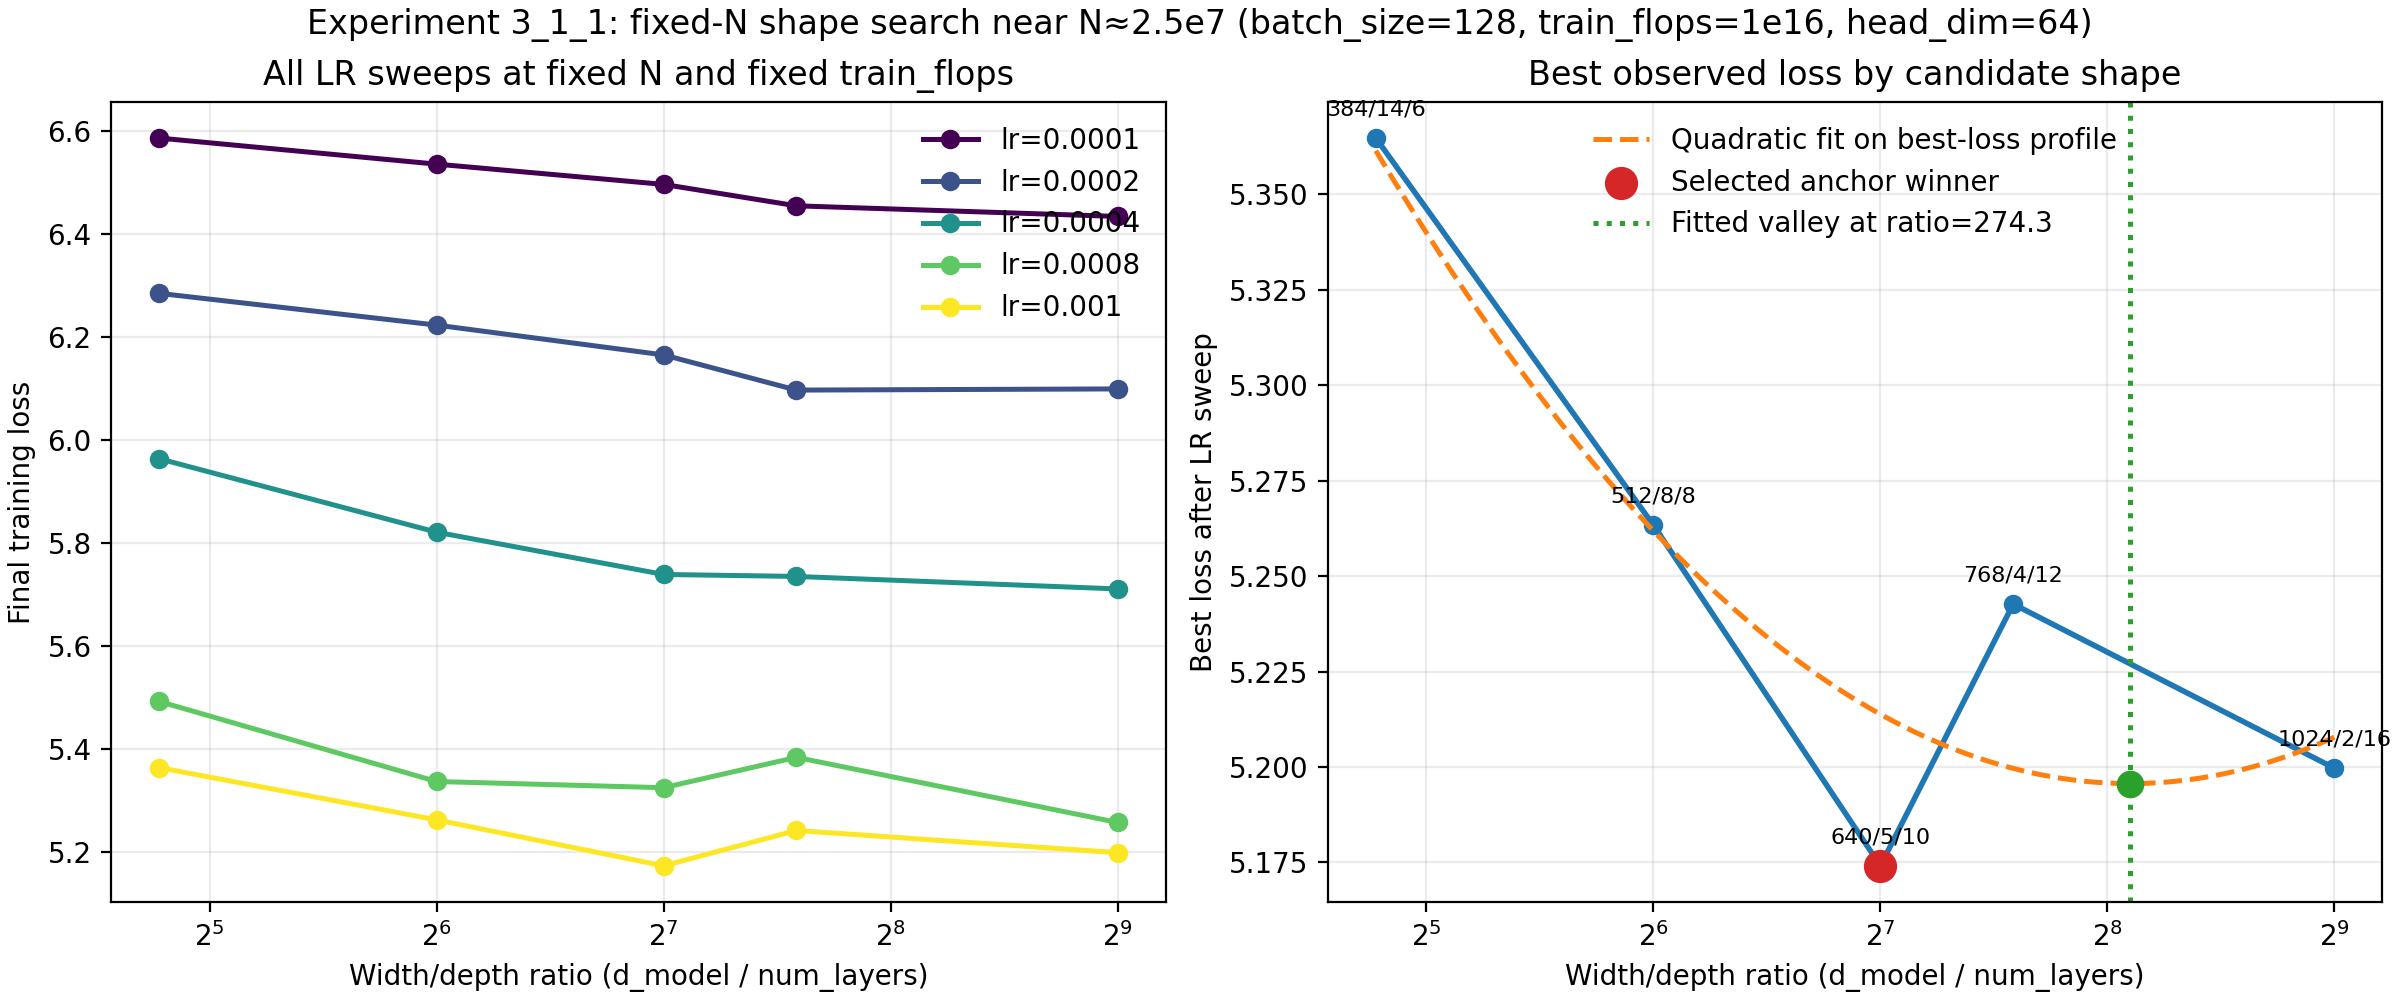
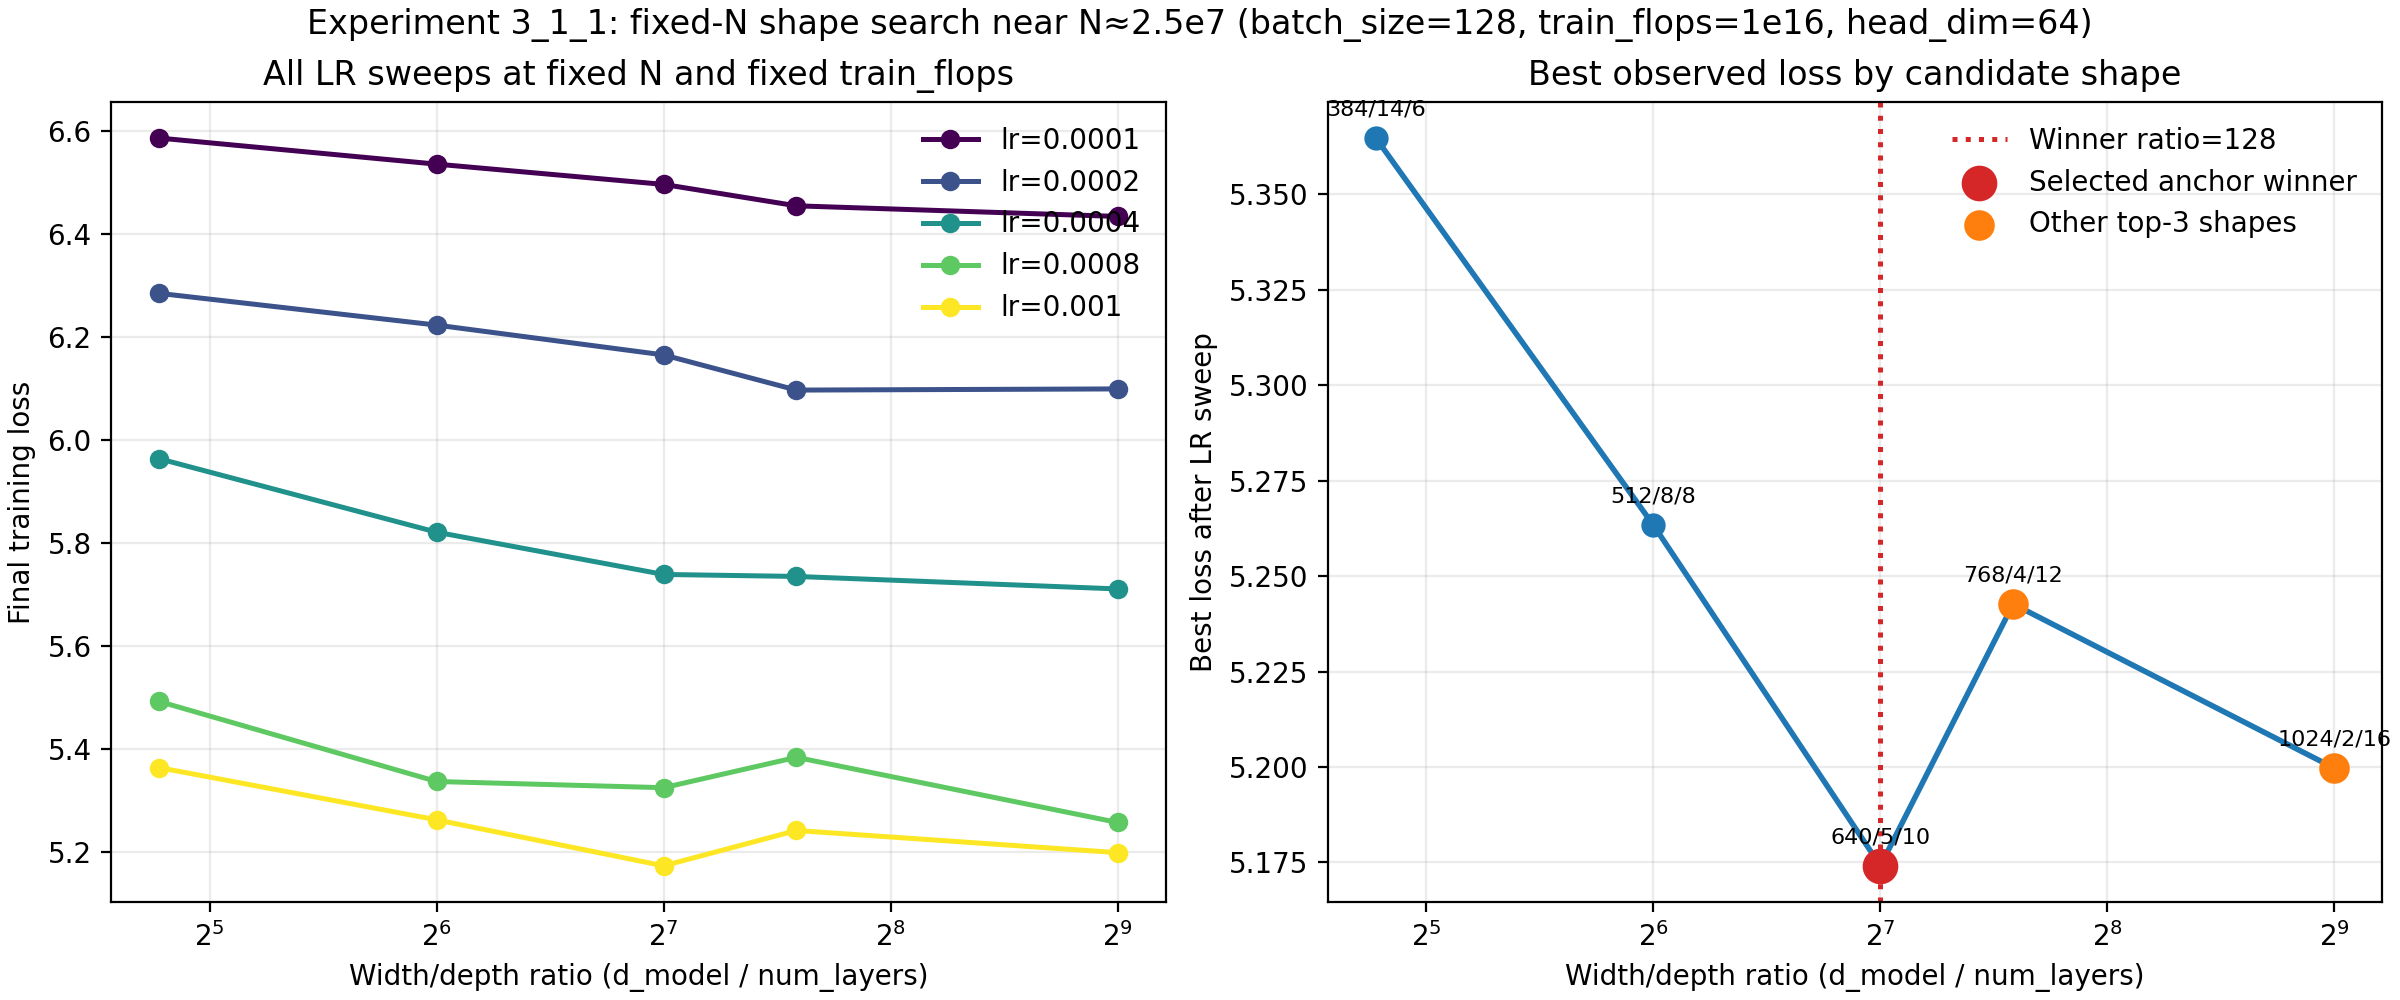
Refine shape-search figure

diff --git a/artifacts/experiments/ch3/3_1_1_shape_lr_sweep/plot_shape_search.py b/artifacts/experiments/ch3/3_1_1_shape_lr_sweep/plot_shape_search.py
@@ -5,7 +5,7 @@ This script reads the archived `results.json` from experiment `3_1_1_shape_lr_sw
 and produces a figure with two panels:
 
 1. Loss versus width/depth ratio for every tested learning rate.
-2. Best loss per shape after the local LR sweep, with the winning shape highlighted.
+2. Best loss per shape after the local LR sweep, with the winner and top-3 shapes highlighted.
 
 The goal is to document that the initial search was a fixed-parameter-scale shape
 comparison rather than a full IsoFLOPs sweep.
@@ -19,7 +19,6 @@ from dataclasses import dataclass
 from pathlib import Path
 
 import matplotlib.pyplot as plt
-import numpy as np
 
 
 @dataclass(frozen=True)
@@ -82,37 +81,12 @@ def best_per_shape(trials: list[ShapeTrial]) -> list[ShapeTrial]:
     return winners
 
 
-def fit_quadratic_valley(trials: list[ShapeTrial]) -> tuple[np.ndarray, float | None, float | None]:
-    """Fit a quadratic in log2(width/depth ratio) to the best-per-shape losses.
-
-    Returns:
-    - coefficients in descending power order for np.polyval
-    - fitted optimum ratio if the parabola opens upward and the vertex lies inside
-      the observed range; otherwise None
-    - fitted optimum loss at that ratio, or None
-    """
-    xs = np.array([trial.width_depth_ratio for trial in trials], dtype=float)
-    ys = np.array([trial.loss for trial in trials], dtype=float)
-    log_xs = np.log2(xs)
-    coeffs = np.polyfit(log_xs, ys, deg=2)
-    a, b, c = coeffs
-    if a <= 0:
-        return coeffs, None, None
-    vertex_log_x = -b / (2 * a)
-    min_log_x = float(log_xs.min())
-    max_log_x = float(log_xs.max())
-    if not (min_log_x <= vertex_log_x <= max_log_x):
-        return coeffs, None, None
-    optimum_ratio = float(2 ** vertex_log_x)
-    optimum_loss = float(np.polyval(coeffs, vertex_log_x))
-    return coeffs, optimum_ratio, optimum_loss
-
-
 def make_plot(trials: list[ShapeTrial], output_path: Path) -> None:
     lr_groups = group_by_lr(trials)
     winners = best_per_shape(trials)
     winning_trial = min(winners, key=lambda trial: trial.loss)
-    coeffs, optimum_ratio, optimum_loss = fit_quadratic_valley(winners)
+    top_three = sorted(winners, key=lambda trial: trial.loss)[:3]
+    top_three_ids = {trial.shape_id for trial in top_three}
 
     fig, axes = plt.subplots(1, 2, figsize=(12, 5), constrained_layout=True)
 
@@ -137,25 +111,26 @@ def make_plot(trials: list[ShapeTrial], output_path: Path) -> None:
     xs = [trial.width_depth_ratio for trial in winners]
     ys = [trial.loss for trial in winners]
     ax.plot(xs, ys, marker="o", linewidth=2.0, color="#1f77b4")
-    fit_xs = np.geomspace(min(xs), max(xs), 200)
-    fit_ys = np.polyval(coeffs, np.log2(fit_xs))
-    ax.plot(
-        fit_xs,
-        fit_ys,
-        linestyle="--",
-        linewidth=1.8,
-        color="#ff7f0e",
-        label="Quadratic fit on best-loss profile",
-    )
-    ax.scatter(
-        [winning_trial.width_depth_ratio],
-        [winning_trial.loss],
-        s=120,
-        color="#d62728",
-        zorder=3,
-        label="Selected anchor winner",
-    )
     for trial in winners:
+        if trial.shape_id == winning_trial.shape_id:
+            color = "#d62728"
+            size = 140
+            zorder = 4
+        elif trial.shape_id in top_three_ids:
+            color = "#ff7f0e"
+            size = 100
+            zorder = 3
+        else:
+            color = "#1f77b4"
+            size = 60
+            zorder = 2
+        ax.scatter(
+            [trial.width_depth_ratio],
+            [trial.loss],
+            s=size,
+            color=color,
+            zorder=zorder,
+        )
         ax.annotate(
             trial.label,
             (trial.width_depth_ratio, trial.loss),
@@ -164,26 +139,20 @@ def make_plot(trials: list[ShapeTrial], output_path: Path) -> None:
             ha="center",
             fontsize=8,
         )
-    if optimum_ratio is not None and optimum_loss is not None:
-        ax.axvline(
-            optimum_ratio,
-            linestyle=":",
-            linewidth=1.8,
-            color="#2ca02c",
-            label=f"Fitted valley at ratio={optimum_ratio:.1f}",
-        )
-        ax.scatter(
-            [optimum_ratio],
-            [optimum_loss],
-            s=80,
-            color="#2ca02c",
-            zorder=4,
-        )
+    ax.axvline(
+        winning_trial.width_depth_ratio,
+        linestyle=":",
+        linewidth=1.8,
+        color="#d62728",
+        label=f"Winner ratio={winning_trial.width_depth_ratio:.0f}",
+    )
     ax.set_xscale("log", base=2)
     ax.set_xlabel("Width/depth ratio (d_model / num_layers)")
     ax.set_ylabel("Best loss after LR sweep")
     ax.set_title("Best observed loss by candidate shape")
     ax.grid(True, alpha=0.25)
+    ax.scatter([], [], s=140, color="#d62728", label="Selected anchor winner")
+    ax.scatter([], [], s=100, color="#ff7f0e", label="Other top-3 shapes")
     ax.legend(frameon=False)
 
     fig.suptitle(

diff --git a/writeup.md b/writeup.md
@@ -70,7 +70,7 @@ The candidate shapes were:
 - `(d_model=768, num_layers=4, num_heads=12)`
 - `(d_model=1024, num_layers=2, num_heads=16)`
 
-Each candidate shape was evaluated with a local learning-rate sweep `\{1e-4, 2e-4, 4e-4, 8e-4, 1e-3\}`. This experiment was designed as a fixed-parameter-scale shape search, not as a full IsoFLOPs profile. In particular, the head dimension was already held constant at `d_model / num_heads = 64` for all five candidates, so the main architectural degree of freedom was the width/depth tradeoff. A natural summary plot for this experiment is therefore loss versus the width/depth ratio `d_model / num_layers`, with one curve per learning rate and a second summary curve showing the best loss achieved by each candidate shape after its local LR sweep. For visualization, it is also reasonable to overlay a smooth quadratic fit on this best-loss profile and mark the fitted valley, but our actual decision rule remained the simpler and more reproducible one: compare the best observed loss achieved by each candidate shape.
+Each candidate shape was evaluated with a local learning-rate sweep `\{1e-4, 2e-4, 4e-4, 8e-4, 1e-3\}`. This experiment was designed as a fixed-parameter-scale shape search, not as a full IsoFLOPs profile. In particular, the head dimension was already held constant at `d_model / num_heads = 64` for all five candidates, so the main architectural degree of freedom was the width/depth tradeoff. A natural summary plot for this experiment is therefore loss versus the width/depth ratio `d_model / num_layers`, with one curve per learning rate and a second summary panel showing the best loss achieved by each candidate shape after its local LR sweep. We use this second panel only as an observed profile over the tested shapes, highlighting the winner and the next-best candidates, rather than treating it as a continuous one-dimensional function that must be fit by a smooth curve.
 
 The best observed configuration in this fixed-`N` comparison was `(640, 5, 10)`, with the next-best shapes being `(1024, 2, 16)` and `(768, 4, 12)`. We used this result to define the deterministic model family for the rest of Chapter 3. Concretely, we fixed two structural rules: `head_dim = 64`, so `num_heads = d_model / 64`, and the anchor width/depth ratio from the winning configuration, so `d_model / num_layers = 640 / 5 = 128`. Combined with the assignment's parameter-count approximation
 
@@ -90,7 +90,9 @@ In practice, we further restricted the main IsoFLOPs experiments to the 7 exact 
 
 This restriction deliberately traded some global search coverage for a much cleaner and more interpretable scaling-law experiment: after this point, the main search no longer had to reason about arbitrary architecture shapes, and could focus on how the optimal parameter count changes with compute budget.
 
-`TODO`: Insert the fixed-`N` shape-search figure from `3_1_1_shape_lr_sweep`.
+![Fixed-N shape search](artifacts/experiments/ch3/3_1_1_shape_lr_sweep/shape_search_profile.png)
+
+Figure 3 summarizes this fixed-`N` shape search. The left panel shows the local learning-rate sweeps for all candidate shapes, plotted against the width/depth ratio `d_model / num_layers`. The right panel collapses each candidate to its best observed loss after the local LR sweep, making it clear that `(640, 5, 10)` is the strongest anchor configuration among the tested shapes, with `(1024, 2, 16)` and `(768, 4, 12)` as the next-best alternatives.
 
 ### 3. Hyperparameter Calibration
 
